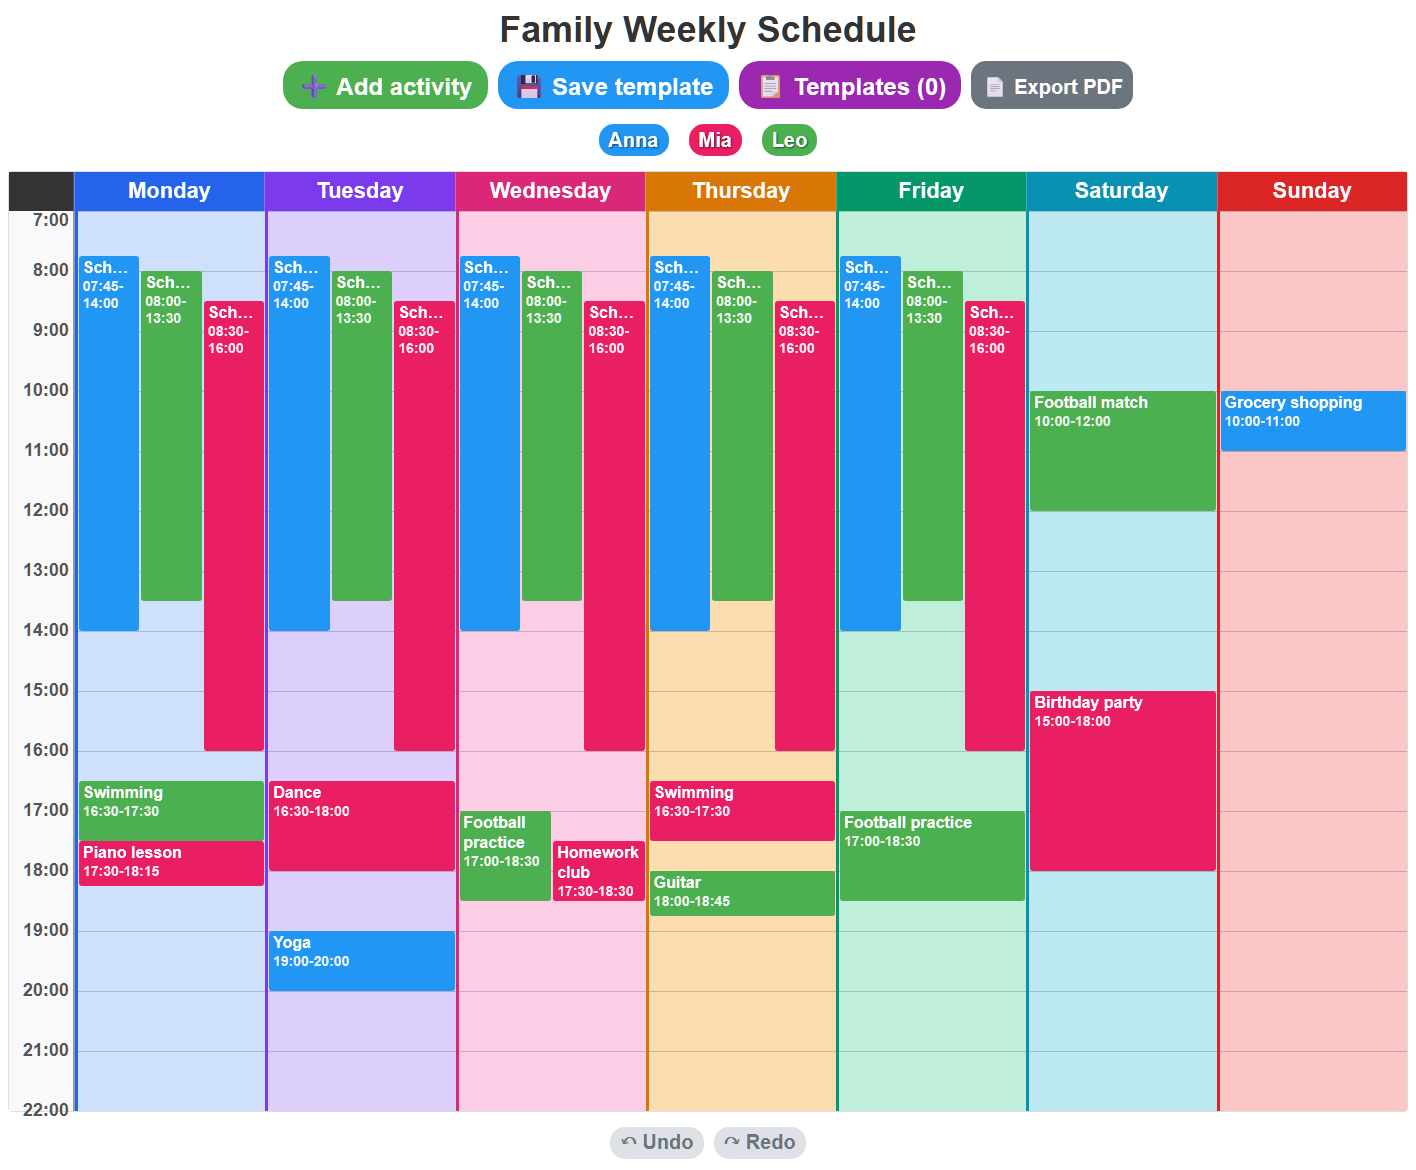
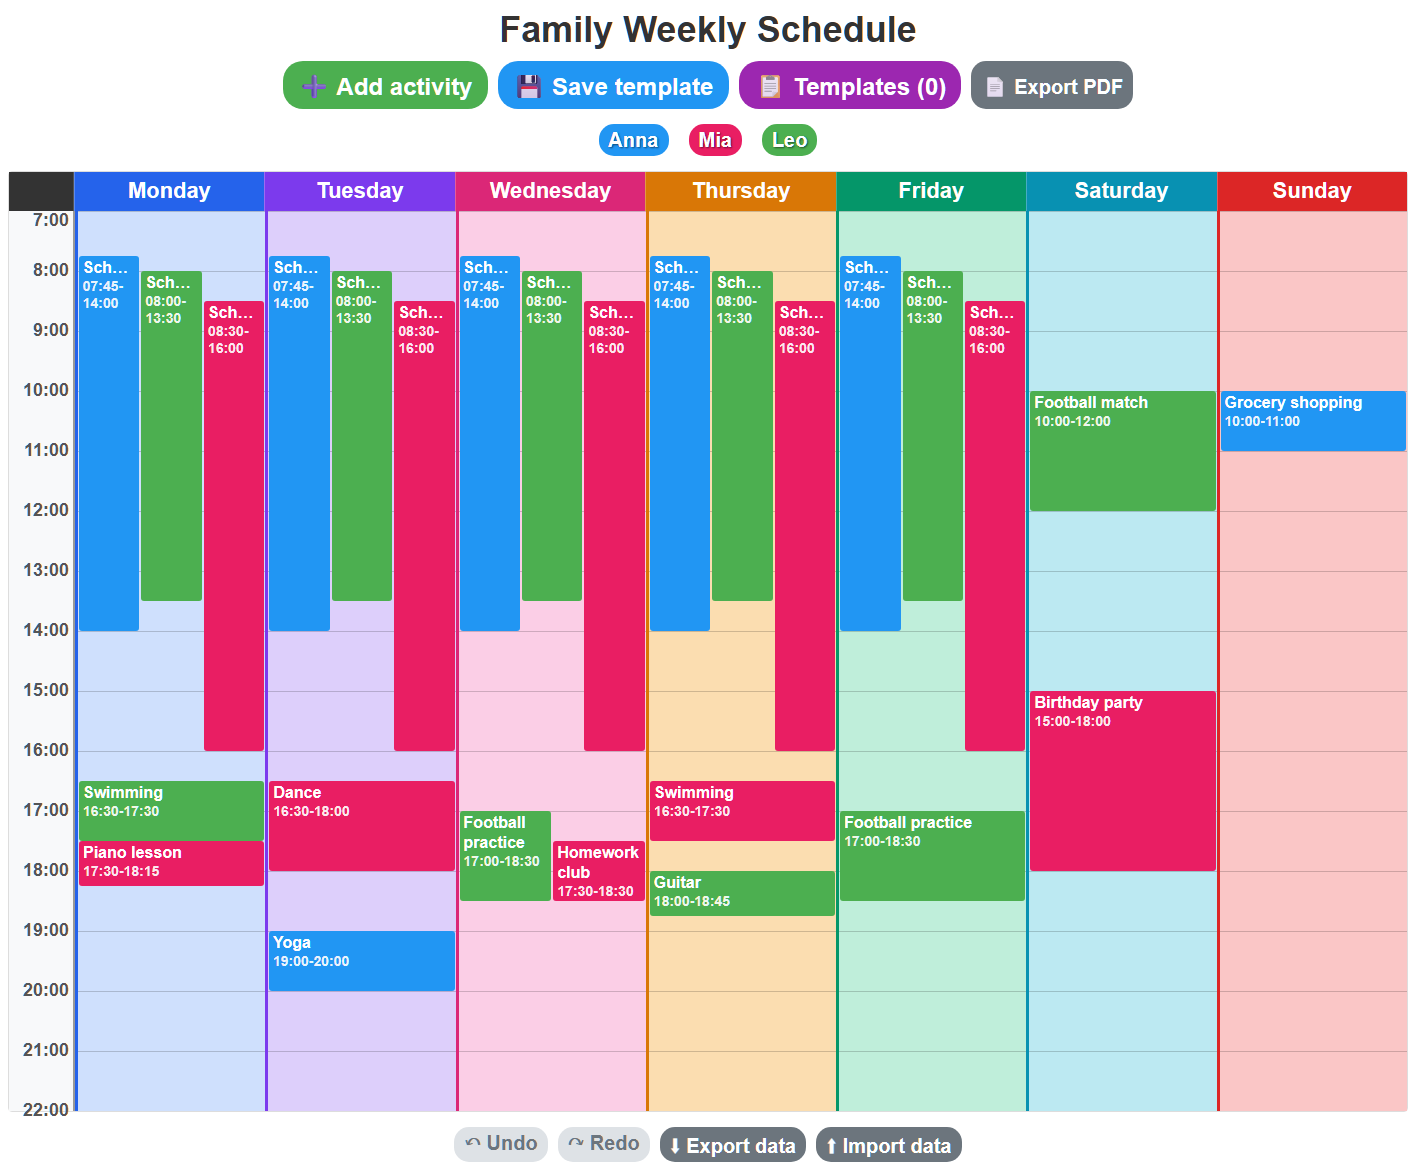
docs: document JSON backups in the README
List the new backup feature, update the limitations accordingly and
refresh the screenshots with the new buttons.

diff --git a/README.md b/README.md
@@ -42,6 +42,9 @@ The family and the schedule in the screenshots are made up.
 - **English and Italian UI** from the same code base.
 - **Saved in the browser** (`localStorage`), with migrations for data written
   by older versions.
+- **JSON backups.** Export the week, family members and templates to one file,
+  and import it again in any browser; the file is fully checked before
+  anything is replaced.
 
 **Italian version** of the same week:
 
@@ -155,10 +158,11 @@ that changes the app.
 
 ## Limitations
 
-- **One device, one week.** Data lives in the browser's `localStorage`: no
-  accounts, no sync, and no way yet to export, import or back up the data.
-  The calendar is a template week, not dated events, so there is no
-  recurrence or calendar sync.
+- **No accounts or sync.** Data lives in the browser's `localStorage`;
+  moving it to another browser or device takes a manual JSON export and
+  import.
+- **One template week.** The calendar holds a typical week, not dated events,
+  so there is no recurrence or calendar sync.
 - **Drag and drop changes the day, not the time.** Times are edited in the
   edit form.
 - **Mouse-first.** The hover details have no touch equivalent yet; on narrow
